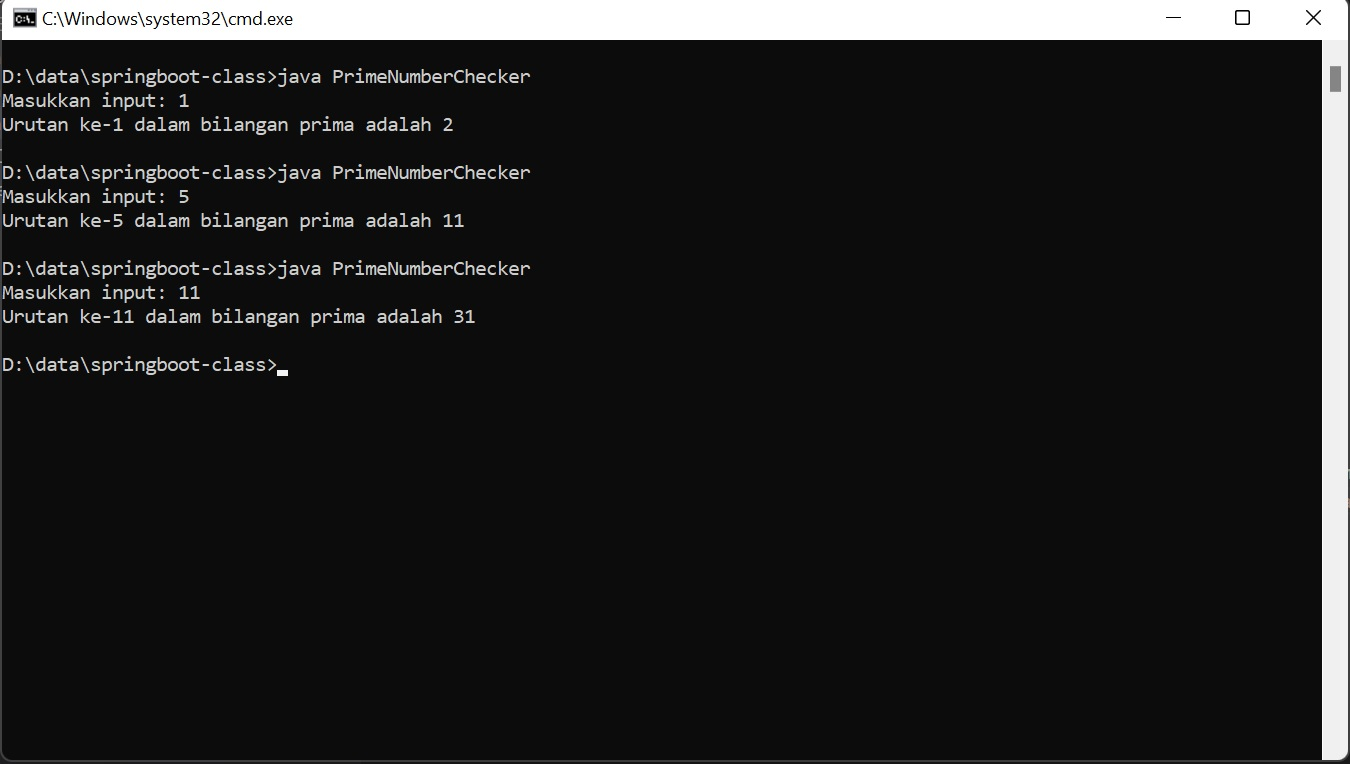
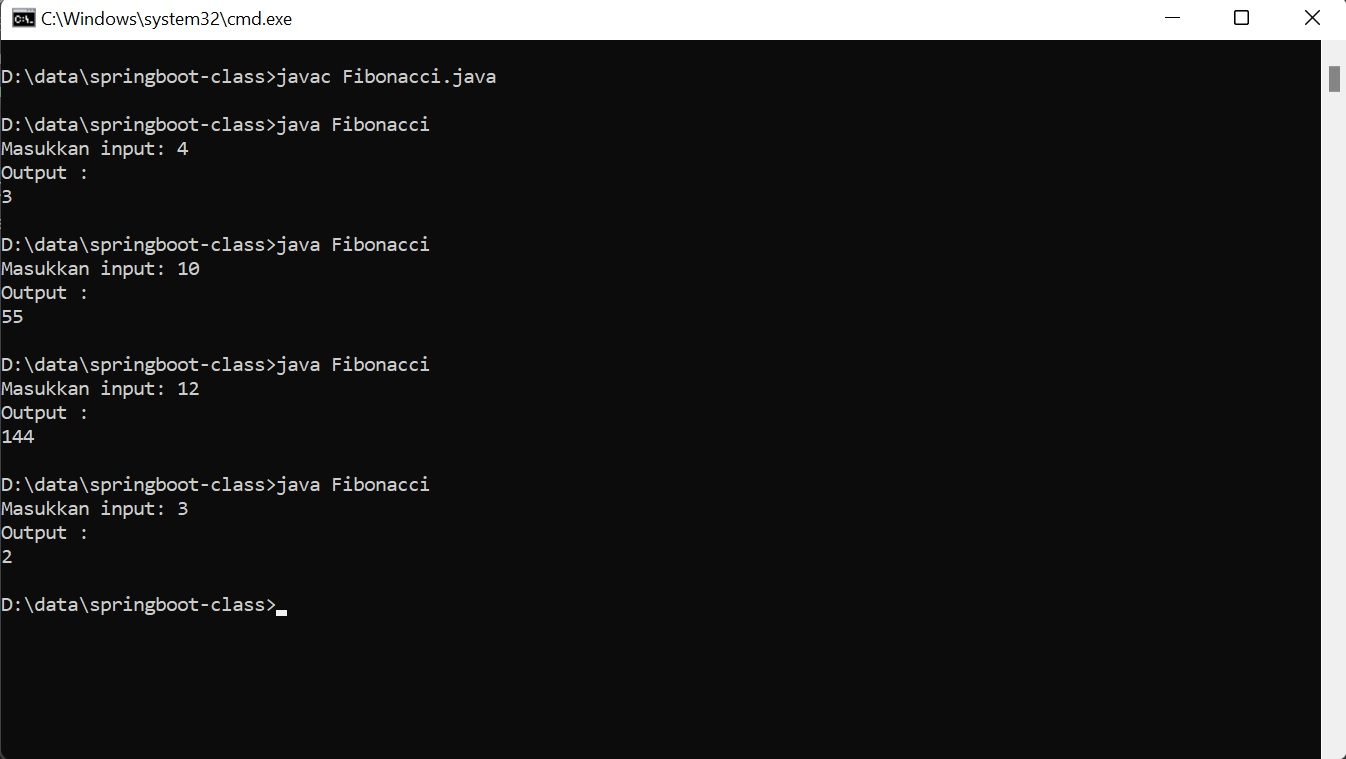
Create a function to check n'th value in fibonacci

diff --git a/Fibonacci.java b/Fibonacci.java
@@ -1,0 +1,18 @@
+import java.util.Scanner;
+
+public class Fibonacci {    
+    static int getFibbonaci(int n) {
+        if (n <= 1) return n;
+        return getFibbonaci(n - 1) + getFibbonaci(n - 2);
+    }
+
+    public static void main(String[] args) {
+        Scanner input = new Scanner(System.in);
+        System.out.print("Masukkan input: ");
+        int intGiven = input.nextInt();
+        input.close();
+
+        System.out.println("Output :");
+        System.out.println(getFibbonaci(intGiven));
+    }    
+}   

diff --git a/README.md b/README.md
@@ -1,3 +1,3 @@
-## Prime Number Checker
+## Fibonacci 
 
 ![screenshot](screenshot.jpg)
